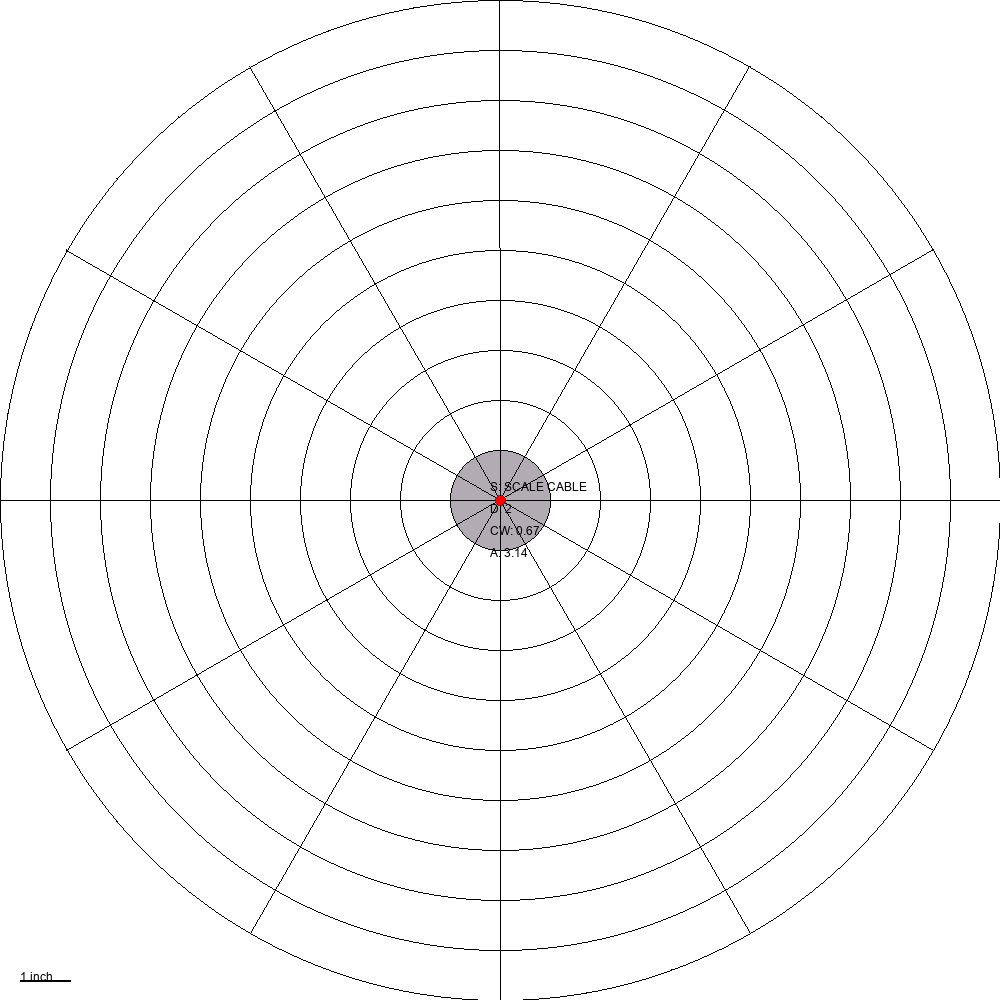
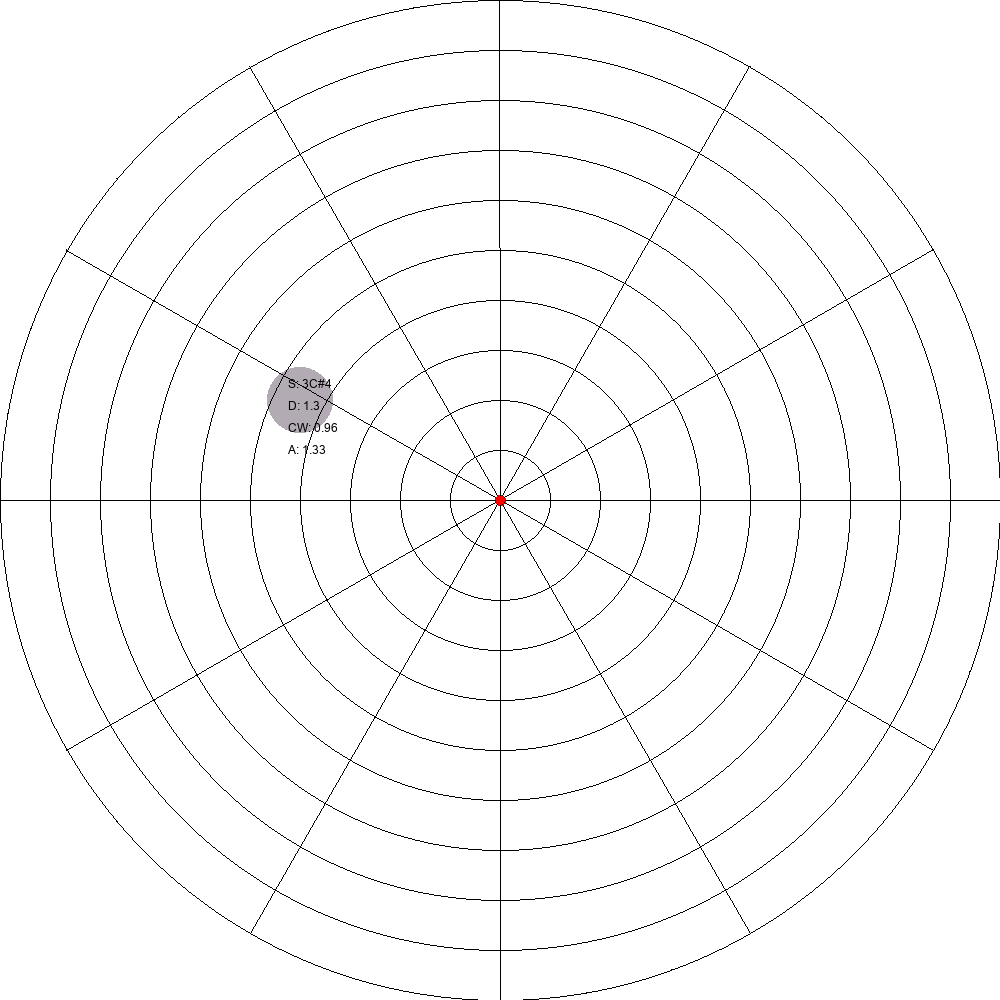
Initial commit

Changed region(s): [[0.434, 0.434, 0.589, 0.558], [0.248, 0.341, 0.341, 0.434], [0.031, 0.961, 0.062, 0.992]]

diff --git a/visualizer.py b/visualizer.py
@@ -2,7 +2,6 @@
 # from PIL import Image, ImageDraw, ImageFont
 # import math
 #
-#
 # def generate_cable_image(cables):
 #     # Define the image size and other parameters
 #     image_size = (1000, 1000)  # Higher resolution image size
@@ -22,12 +21,12 @@
 #     for i, cable in enumerate(cables):
 #         # Calculate the scaled radius based on the cable's diameter
 #         diameter = cable.diameter
-#         scaling_factor = 150  # Increase the scaling factor
+#         scaling_factor = 50  # Increase the scaling factor
 #         cable_radius = diameter * scaling_factor / 2  # Adjust the scaling factor here
 #
-#         # Calculate the coordinates for the center of the quadrant based on the index
-#         center_x = (i % 2) * quadrant_size[0] + quadrant_size[0] // 2
-#         center_y = (i // 2) * quadrant_size[1] + quadrant_size[1] // 2
+#         # Calculate the coordinates for the center of the image
+#         center_x = image_size[0] // 2
+#         center_y = image_size[1] // 2
 #         center = (center_x, center_y)
 #
 #         # Draw the cable as a filled circle
@@ -116,12 +115,13 @@
 #         draw.line([line_start, line_end], fill="black", width=1)
 #
 #     # Draw scale in the bottom left corner
-#     scale_length = 50
-#     scale_offset = 0
+#     scale_spacing = radius_spacing  # Spacing between two grid lines
+#     scale_length = scale_spacing  # Length equal to the spacing between two grid lines
+#     scale_offset = 20
 #     scale_start = (scale_offset, image_size[1] - scale_offset)
 #     scale_end = (scale_offset + scale_length, image_size[1] - scale_offset)
 #     draw.line([scale_start, scale_end], fill="black", width=2)
-#     draw.text((scale_start[0], scale_start[1] - 10), f"{scale_length} units", fill="black", font=font)
+#     draw.text((scale_start[0], scale_start[1] - 10), "1 inch", fill="black", font=font)
 #
 #     # Save the image to a file or display it
 #     image.save("cable_image.png", dpi=dpi)  # Higher resolution
@@ -130,63 +130,70 @@
 #
 # get_cable_sizes()
 # generate_cable_image(cable_sizes[11:12])  # Extract cables from indices 7 to 10 (inclusive)
-
 from file_handler import *
 from PIL import Image, ImageDraw, ImageFont
 import math
 
 
+def draw_cable(draw, x, y, cable_data):
+    scaling_factor = 50  # Increase the scaling factor
+    offset_x = 20  # Offset in the x-direction
+    offset_y = 20  # Offset in the y-direction
+    text_margin = 10  # Decreased margin
+    font_size = 12  # Larger font size
+    text_color = "black"
+    font = ImageFont.truetype("arial.ttf", font_size)  # Set the font size
+
+    # Extract cable data attributes
+    size = cable_data.size
+    diameter = cable_data.diameter
+    pounds_per_foot = cable_data.pounds_per_foot
+    cross_sectional_area = cable_data.cross_sectional_area
+
+    # Calculate the scaled radius based on the cable's diameter
+    cable_radius = diameter * scaling_factor / 2
+
+    # Calculate the coordinates for the center of the cable
+    center_x = x
+    center_y = y
+
+    # Draw the cable as a filled circle
+    cable_color = "#B2ABB3"  # Darker shade of gray
+    cable_bbox = (
+        center_x - cable_radius,
+        center_y - cable_radius,
+        center_x + cable_radius,
+        center_y + cable_radius,
+    )
+    draw.ellipse(cable_bbox, fill=cable_color)
+
+    # Create a text label with the cable information
+    text_x = center_x - cable_radius + offset_x  # Add x-direction offset
+    text_y = center_y - cable_radius - text_margin + offset_y  # Add y-direction offset
+
+    text_lines = [
+        f"S: {size}",
+        f"D: {diameter}",
+        f"CW: {pounds_per_foot}",
+        f"A: {cross_sectional_area}",
+    ]
+    for line in text_lines:
+        draw.text((text_x, text_y), line, fill=text_color, font=font)
+        text_y += font_size + 10  # Adjust the vertical spacing
+
+
 def generate_cable_image(cables):
     # Define the image size and other parameters
     image_size = (1000, 1000)  # Higher resolution image size
-    text_margin = 10  # Decreased margin
-    font_size = 12  # Larger font size
-    offset_x = 40  # Offset in the x-direction
-    offset_y = 40  # Offset in the y-direction
     dpi = (1000, 1000)  # Higher DPI (dots per inch)
-
-    # Calculate the quadrant size based on the image size
-    quadrant_size = (image_size[0] // 2, image_size[1] // 2)
 
     # Create a new image with a white background
     image = Image.new("RGB", image_size, "white")
     draw = ImageDraw.Draw(image)
 
-    for i, cable in enumerate(cables):
-        # Calculate the scaled radius based on the cable's diameter
-        diameter = cable.diameter
-        scaling_factor = 50  # Increase the scaling factor
-        cable_radius = diameter * scaling_factor / 2  # Adjust the scaling factor here
-
-        # Calculate the coordinates for the center of the image
-        center_x = image_size[0] // 2
-        center_y = image_size[1] // 2
-        center = (center_x, center_y)
-
-        # Draw the cable as a filled circle
-        cable_color = "#B2ABB3"  # Darker shade of gray
-        cable_bbox = (
-            center[0] - cable_radius,
-            center[1] - cable_radius,
-            center[0] + cable_radius,
-            center[1] + cable_radius,
-        )
-        draw.ellipse(cable_bbox, fill=cable_color)
-
-        # Create a text label with the cable information
-        text_x = center_x - cable_radius + offset_x  # Add x-direction offset
-        text_y = center_y - cable_radius - text_margin + offset_y  # Add y-direction offset
-        text_color = "black"
-        font = ImageFont.truetype("arial.ttf", font_size)  # Set the font size
-        text_lines = [
-            f"S: {cable.size}",
-            f"D: {cable.diameter}",
-            f"CW: {cable.pounds_per_foot}",
-            f"A: {cable.cross_sectional_area}",
-        ]
-        for line in text_lines:
-            draw.text((text_x, text_y), line, fill=text_color, font=font)
-            text_y += font_size + 10  # Adjust the vertical spacing
+    for i, cable_data in enumerate(cables):
+        # Call the draw_cable function to draw the cable and create the text label
+        draw_cable(draw, 300, 400, cable_data)  # Example coordinates (300, 400)
 
     # Overlay polar coordinate graph
     polar_graph_radius = min(image_size) // 2
@@ -248,19 +255,10 @@ def generate_cable_image(cables):
         )
         draw.line([line_start, line_end], fill="black", width=1)
 
-    # Draw scale in the bottom left corner
-    scale_spacing = radius_spacing  # Spacing between two grid lines
-    scale_length = scale_spacing  # Length equal to the spacing between two grid lines
-    scale_offset = 20
-    scale_start = (scale_offset, image_size[1] - scale_offset)
-    scale_end = (scale_offset + scale_length, image_size[1] - scale_offset)
-    draw.line([scale_start, scale_end], fill="black", width=2)
-    draw.text((scale_start[0], scale_start[1] - 10), "1 inch", fill="black", font=font)
-
     # Save the image to a file or display it
     image.save("cable_image.png", dpi=dpi)  # Higher resolution
     image.show()
 
 
 get_cable_sizes()
-generate_cable_image(cable_sizes[11:12])  # Extract cables from indices 7 to 10 (inclusive)
+generate_cable_image(cable_sizes[0:1])  # Extract cables from indices 7 to 10 (inclusive)
